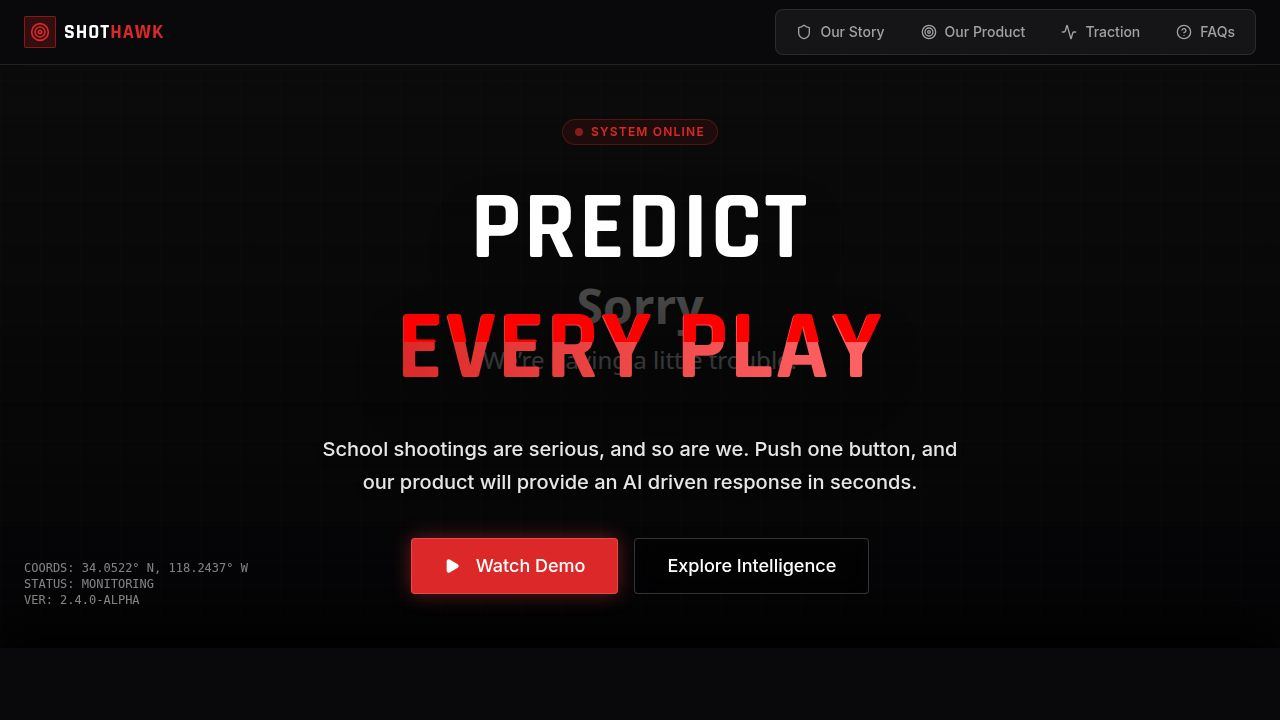
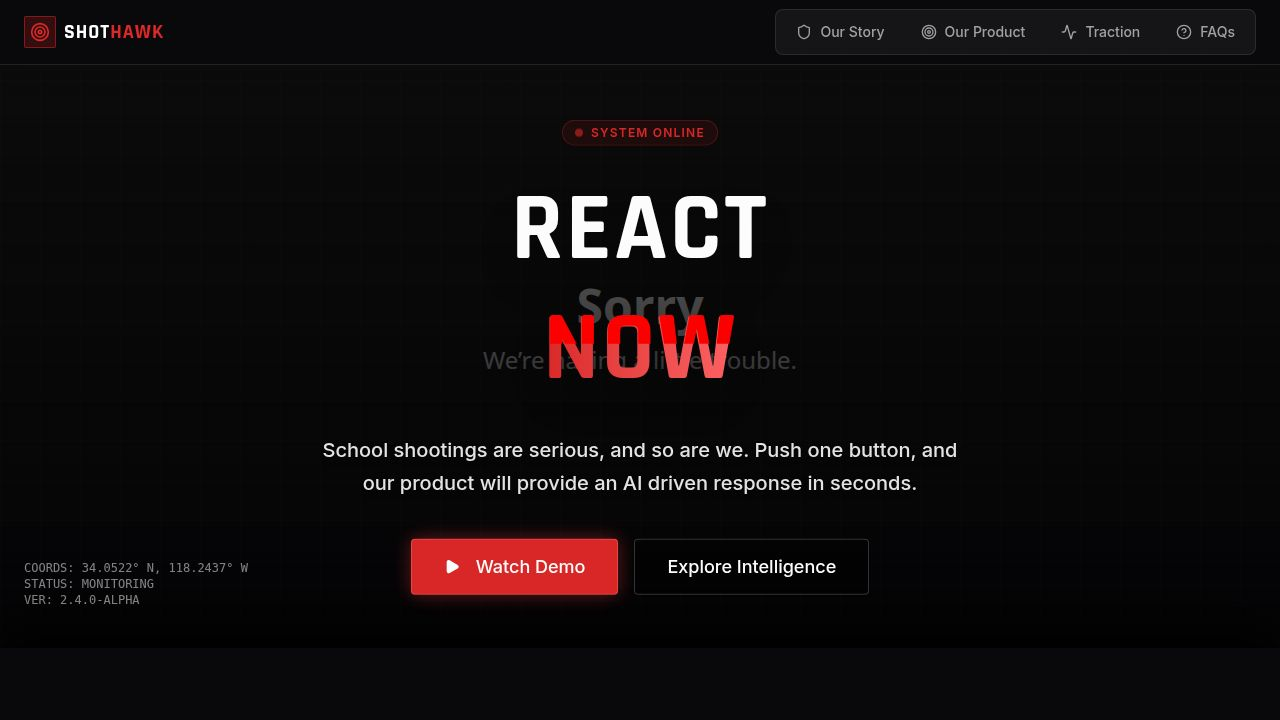
Update hero headline to "React Now" for immediate engagement
Change the main headline text from "Predict Every Play" to "REACT NOW" in the Hero component.

Replit-Commit-Author: Agent
Replit-Commit-Session-Id: c9406ede-b1af-4a45-bbbc-e8b041079266
Replit-Commit-Checkpoint-Type: full_checkpoint
Replit-Commit-Event-Id: 7426aa3a-ddde-40f9-9525-5ea3aee4239c
Replit-Commit-Screenshot-Url: https://storage.googleapis.com/screenshot-production-us-central1/40b16886-992c-46b5-83b0-be9f2f4cfdcd/c9406ede-b1af-4a45-bbbc-e8b041079266/ICQRVnY
Replit-Helium-Checkpoint-Created: true

diff --git a/client/src/App.tsx b/client/src/App.tsx
@@ -138,9 +138,9 @@ const Hero = ({ onExplore }: { onExplore: () => void }) => {
           </div>
           
           <h1 className="text-5xl md:text-7xl lg:text-8xl font-display font-bold text-white mb-6 leading-tight drop-shadow-2xl">
-            PREDICT <br />
-            <span className="text-transparent bg-clip-text bg-gradient-to-r from-primary to-red-400 glitch-effect" data-text="EVERY PLAY">
-              EVERY PLAY
+            REACT <br />
+            <span className="text-transparent bg-clip-text bg-gradient-to-r from-primary to-red-400 glitch-effect" data-text="NOW">
+              NOW
             </span>
           </h1>
           
